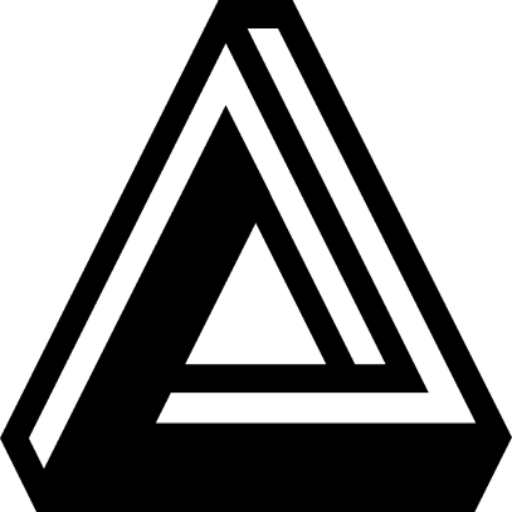
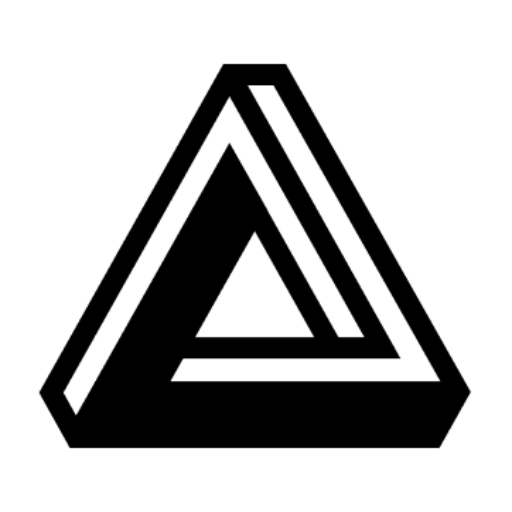
Update Home page styles and text for improved user engagement
- Modified button styles for better alignment and aesthetics, changing from rounded-lg to rounded-xl.
- Updated button text from "Try Free" to "Get Started Free" and "Talk to Sales" to "Book a Demo" to enhance clarity and appeal.
- Updated multiple favicon and icon files to ensure consistent branding across platforms.

diff --git a/website/app/page.tsx b/website/app/page.tsx
@@ -24,15 +24,15 @@ export default function Home() {
             <div className="flex flex-col sm:flex-row gap-4 justify-center">
               <a
                 href="http://localhost:5173"
-                className="px-8 py-4 rounded-lg bg-gradient-to-r from-blue-600 to-cyan-600 text-white font-semibold text-lg hover:from-blue-700 hover:to-cyan-700 transition-all shadow-lg hover:shadow-xl"
+                className="inline-flex items-center justify-center px-5 py-2.5 rounded-xl bg-gradient-to-r from-blue-600 to-cyan-600 text-white font-semibold text-lg hover:from-blue-700 hover:to-cyan-700 transition-all shadow-lg hover:shadow-xl"
               >
-                Try Free
+                Get Started Free
               </a>
               <Link
                 href="#features"
-                className="px-8 py-4 rounded-lg border-2 border-slate-300 dark:border-slate-600 text-slate-700 dark:text-slate-300 font-semibold text-lg hover:border-slate-400 dark:hover:border-slate-500 hover:bg-white dark:hover:bg-slate-800 transition-all"
+                className="inline-flex items-center justify-center px-5 py-2.5 rounded-xl border-2 border-slate-300 dark:border-slate-600 text-slate-700 dark:text-slate-300 font-semibold text-lg hover:border-slate-400 dark:hover:border-slate-500 hover:bg-white dark:hover:bg-slate-800 transition-all"
               >
-                Talk to Sales
+                Book a Demo
               </Link>
             </div>
           </div>
